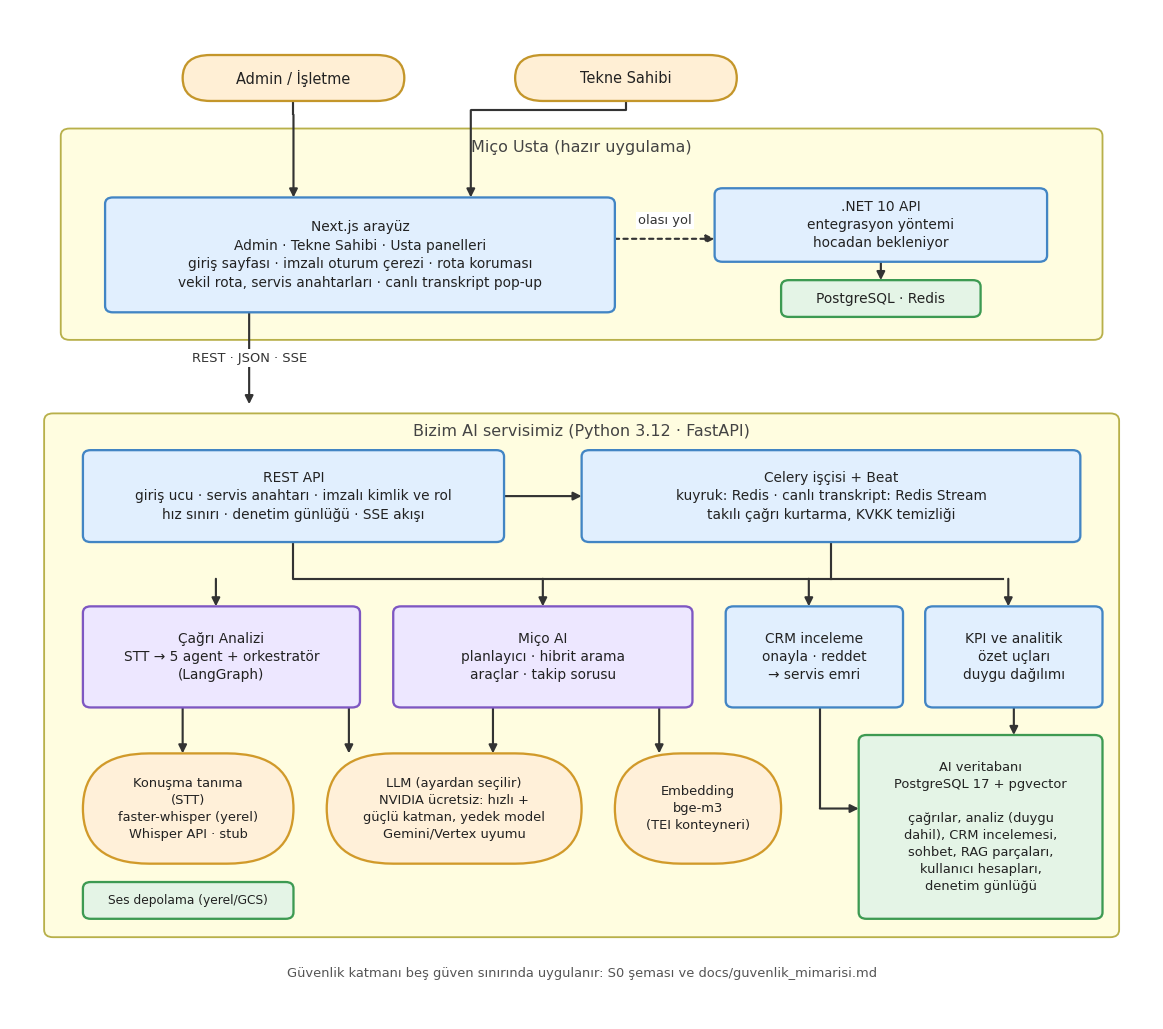
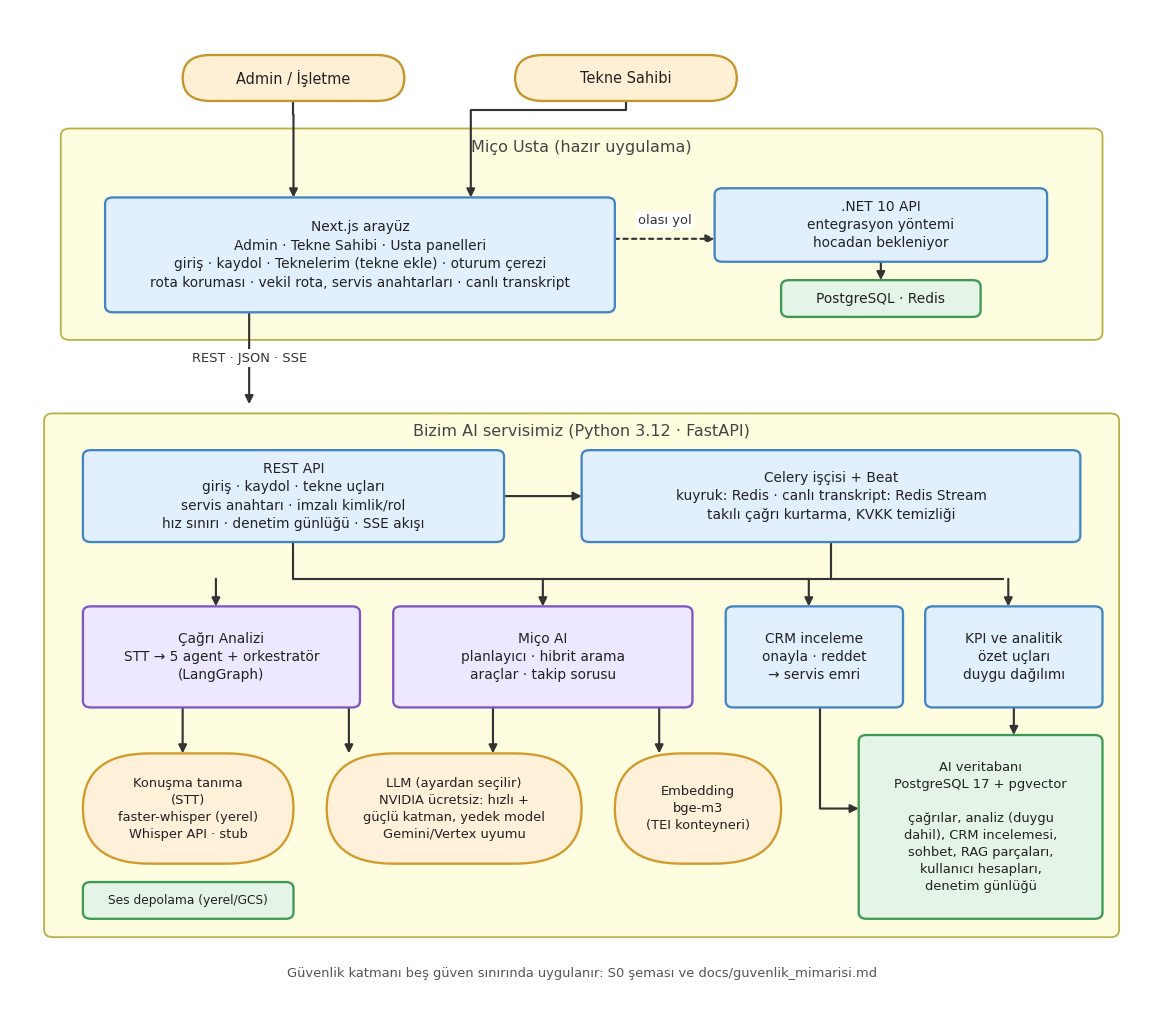
Mimari v7.1: kaydol ve tekne ekle, README ve şemalar (#389)

Changed region(s): [[0.1238, 0.4354, 0.3715, 0.5287], [0.1238, 0.2488, 0.4953, 0.2799]]

diff --git a/backend/tests/test_docs_consistency.py b/backend/tests/test_docs_consistency.py
@@ -14,7 +14,7 @@ ROOT = Path(__file__).resolve().parents[2]
 MARKDOWN = [
     ROOT / "README.md",
     ROOT / "README.en.md",
-    ROOT / "Sistem_mimarisi_v7.0.md",
+    ROOT / "Sistem_mimarisi_v7.1.md",
     ROOT / "backend" / "README.md",
     ROOT / "frontend" / "README.md",
     *sorted((ROOT / "docs").glob("*.md")),
@@ -35,7 +35,7 @@ def test_relative_links_and_images_exist(path: Path) -> None:
 
 
 def test_diagrams_referenced_by_architecture_exist() -> None:
-    text = (ROOT / "Sistem_mimarisi_v7.0.md").read_text(encoding="utf-8")
+    text = (ROOT / "Sistem_mimarisi_v7.1.md").read_text(encoding="utf-8")
     images = re.findall(r"!\[[^\]]*\]\((docs/diagrams/[^)]+)\)", text)
     assert images, "mimari belgede diyagram yok"
     for image in images:
@@ -71,7 +71,7 @@ def test_every_table_is_in_db_schema_doc() -> None:
 
 def test_main_dependencies_are_listed_in_architecture() -> None:
     """Projenin ana çerçeveleri mimari belgenin teknoloji tablosunda yazılı olmalı."""
-    text = (ROOT / "Sistem_mimarisi_v7.0.md").read_text(encoding="utf-8")
+    text = (ROOT / "Sistem_mimarisi_v7.1.md").read_text(encoding="utf-8")
     for name in (
         "FastAPI",
         "Celery",
@@ -88,7 +88,7 @@ def test_main_dependencies_are_listed_in_architecture() -> None:
         "Alembic",
         "Docker",
     ):
-        assert name in text, f"Sistem_mimarisi_v7.0.md teknoloji tablosunda {name} yok"
+        assert name in text, f"Sistem_mimarisi_v7.1.md teknoloji tablosunda {name} yok"
 
 
 def test_er_diagram_source_matches_models() -> None:

diff --git a/docs/diagrams/kaynak/mimari_semalari.py b/docs/diagrams/kaynak/mimari_semalari.py
@@ -95,8 +95,8 @@ def genel_mimari() -> None:
 
     c.zone(3, 66, 94, 23, "Miço Usta (hazır uygulama)")
     c.box(7, 69, 46, 12.5,
-          "Next.js arayüz\nAdmin · Tekne Sahibi · Usta panelleri\ngiriş sayfası · imzalı oturum çerezi · rota koruması\n"
-          "vekil rota, servis anahtarları · canlı transkript pop-up", "servis", fs=9)
+          "Next.js arayüz\nAdmin · Tekne Sahibi · Usta panelleri\ngiriş · kaydol · Teknelerim (tekne ekle) · oturum çerezi\n"
+          "rota koruması · vekil rota, servis anahtarları · canlı transkript", "servis", fs=9)
     c.box(62, 74.5, 30, 8, ".NET 10 API\nentegrasyon yöntemi\nhocadan bekleniyor", "servis", fs=9)
     c.box(68, 68.5, 18, 4, "PostgreSQL · Redis", "veri", fs=9)
     c.line([(24, 92), (24, 90.5), (24, 81.5)], arrow=True)
@@ -108,7 +108,7 @@ def genel_mimari() -> None:
 
     c.zone(1.5, 1, 97, 57, "Bizim AI servisimiz (Python 3.12 · FastAPI)")
     c.box(5, 44, 38, 10,
-          "REST API\ngiriş ucu · servis anahtarı · imzalı kimlik ve rol\nhız sınırı · denetim günlüğü · SSE akışı", "servis", fs=9)
+          "REST API\ngiriş · kaydol · tekne uçları\nservis anahtarı · imzalı kimlik/rol\nhız sınırı · denetim günlüğü · SSE akışı", "servis", fs=9)
     c.box(50, 44, 45, 10,
           "Celery işçisi + Beat\nkuyruk: Redis · canlı transkript: Redis Stream\ntakılı çağrı kurtarma, KVKK temizliği",
           "servis", fs=9)

diff --git a/docs/diagrams/kaynak/guvenlik_semalari.py b/docs/diagrams/kaynak/guvenlik_semalari.py
@@ -136,8 +136,8 @@ def s1():
     c = Canvas("S1 · Kimlik doğrulama",
                "İki katman: (1) tarayıcı → Next: giriş + imzalı oturum çerezi, (2) Next → API: servis anahtarı + imzalı kimlik ve rol")
     c.zone(2, 44, 96, 36, "Katman 1 · Kullanıcı girişi ve oturum (Next, #369-#372)")
-    c.box(3.5, 60, 16, 14, "/login sayfası\nYönetici / Tekne sahibi\nkullanıcı adı + parola", "dis", 8.8)
-    c.box(24, 60, 18, 14, "POST /auth/login\nrole göre tablo; tek tip\n401, IP bütçesi 429,\n5 hata → 15 dk kilit", "var", 8.8)
+    c.box(3.5, 60, 16, 14, "/login · /register\nYönetici / Tekne sahibi\ne-posta + parola\n(kayıt: ≥12, Aa, sembol)", "dis", 8.8)
+    c.box(24, 60, 18, 14, "POST /auth/login ve /register\nrole göre tablo; tek tip 401,\nIP bütçesi 429, 5 hata → kilit;\nkayıt yalnız owner açar", "var", 8.8)
     c.box(47, 60, 18, 14, "admin_accounts /\nowner_accounts\nargon2id karma\n(ayrı tablolar)", "veri", 8.8)
     c.box(70, 60, 26, 14, "mico_session çerezi: HMAC imzalı,\nhttpOnly, SameSite=Lax,\ncanlıda secure, 8 saat", "var", 8.8)
     c.arrow(19.5, 67, 24, 67)

diff --git a/Sistem_mimarisi_v7.1.md b/Sistem_mimarisi_v7.1.md
@@ -1,7 +1,9 @@
-# Sistem Mimarisi v7.0
+# Sistem Mimarisi v7.1
 
 **Proje:** Yapay Zekâ Destekli Sesli Asistan ve Çağrı Merkezi Analitiği Sistemi
-**Sürüm:** v7.0 · **Tarih:** 2026-11-24 · **Durum:** Güncel · **Önceki sürümler:** v1, v2, v3.0, v3.1, v4, v4.1, v4.2, v5, v6, v6.1 (git geçmişinde)
+**Sürüm:** v7.1 · **Tarih:** 2026-11-24 · **Durum:** Güncel · **Önceki sürümler:** v1, v2, v3.0, v3.1, v4, v4.1, v4.2, v5, v6, v6.1, v7.0 (git geçmişinde)
+
+**v7.1'de değişenler (24 Kasım, kaydol ve tekne ekle):** Tekne sahibi paneline müşterilerin kendi hesabını açtığı **kaydol sayfası** (`/register`: ad, soyad, telefon, e-posta, parola + tekrar) ve kendi teknelerini kaydettiği **Teknelerim / Tekne ekle** sayfası (`/owner/boats`: ad, model, yıl, marina) eklendi (#381-#384). Giriş alanı artık **e-posta**dır (iki panelde; `username` sütununda küçük harfle), sentetik hesaplar e-postaya taşındı. Parola kuralı kayıtta zorunludur: en az 12 karakter, büyük harf, küçük harf ve özel sembol. Yeni uçlar: `POST /auth/register` (tek işlemde `customers` + `owner_accounts`; kayıtlı e-postada genel 409; IP başına saatte 10 deneme; yalnız `owner` hesabı açılır) ve `GET/POST /boats` (yalnız `owner`; `owner_id` oturumdan; aynı ad 409; sahip başına en çok 20 tekne). **Şema değişmedi** (Alembic 0009): doğum tarihi ve tekne boyu/motor gibi sütunu olmayan alanlar alınmaz. Genel mimari (01) şeması, S1 şeması, README'ler ve belgeler (api, güvenlik, kişisel veri envanteri, çalıştırma rehberi) güncellendi; API işlem sayısı 36.
 
 **v7.0'da değişenler (24 Kasım, kimlik doğrulama):** Test arayüzüne **giriş sistemi** eklendi ve hocanın son güvenlik perspektifi olan kimlik doğrulama mimariye işlendi (#265 kararı: kullanıcı girişi uygulandı; #368-#373). `/login` sayfasında Yönetici / Tekne sahibi seçilir; hesaplar ayrı `admin_accounts` ve `owner_accounts` tablolarındadır (argon2id; `user_accounts` kaldırıldı, tablo sayısı 19, Alembic 0009); `POST /auth/login` tek tip hata verir, 5 hatada 15 dk kilit ve IP başına hata bütçesi uygular, olaylar denetim günlüğüne yazılır. Next tarafında imzalı `httpOnly` oturum çerezi (`mico_session`, 8 saat), `proxy.ts` ile rota koruması ve rol çaprazlama engeli getirildi; vekil rota kimliği ve rolü yalnızca çerezden türetip imzalar (tarayıcı kimliği/rol seçici ve `ALLOW_BROWSER_USER_ID` kaldırıldı). Genel mimari (01) ile S0/S1 şemaları yeniden üretildi; §3, §4.1, §6, §11, §12 ve `docs/guvenlik_mimarisi.md` güncellendi. Sınırlar: çok faktörlü doğrulama ve parola sıfırlama yok; oturum sunucuda iptal edilemez.
 
@@ -250,6 +252,8 @@ KPI'lar İstanbul saatine göre günlere ayrılır.
 | Admin | **CRM önerisi:** Bekliyor / Onaylandı / Reddedildi sekmeleri; onayla, reddet, düzenle | Çalışıyor |
 | Admin | **Servis Emirleri:** liste, filtre, kaynak çağrıya bağlantı, sıralı durum ilerletme | Çalışıyor |
 | Tekne Sahibi | **Asistan:** sohbet penceresi, kaynak kartları, oturum geçmişi | Çalışıyor |
+| Tekne Sahibi | **Kaydol** (`/register`) ve **Teknelerim / Tekne ekle** (`/owner/boats`): ad, model, yıl, marina; liste ve boş durum | Çalışıyor |
+| Herkes | **Giriş** (`/login`): Yönetici / Tekne sahibi seçimi, e-posta + parola, çıkış | Çalışıyor |
 | Usta | Değişiklik yok | — |
 
 ## 8. Entegrasyon Sözleşmesi
@@ -264,6 +268,7 @@ Arayüz ile AI servisi arasındaki sözleşme `docs/api.md` ve `frontend/openapi
 | CRM önerileri | Liste ve durum filtresi; onayla, reddet |
 | KPI özeti | Tarih aralığına göre toplam KPI'lar |
 | Asistan sohbeti | Soru ve kullanıcı kimliği gönderilir; kaynaklı cevap akış olarak döner; oturum listesi ve geçmişi |
+| Giriş, kaydol, tekne | `POST /auth/login`, `POST /auth/register` (yalnız Next sunucusu çağırır); `GET/POST /boats` (tekne sahibi) |
 
 - **Kimlik doğrulama:** İstemci AI servisini servis anahtarıyla çağırır; tekne sahibinin kimliği isteğe eklenir. Test arayüzünde kullanıcı girişi vardır: ayrı yönetici/sahip hesap tabloları (argon2id), `POST /auth/login`, imzalı oturum çerezi ve rota koruması; Next vekil rotası kimliği çerezden türetip imzalar (#265, #368-#372). Miço Usta ile entegrasyonda kimliği .NET uygulaması belirler. Ayrıntı §4.1.
 - **Hatalar:** Tek tip hata biçimi (kod, mesaj, istek kimliği) korunur.
@@ -285,7 +290,7 @@ Arayüz ile AI servisi arasındaki sözleşme `docs/api.md` ve `frontend/openapi
 
 | Alan | Durum |
 |------|-------|
-| Backend (FastAPI, 32 API işlemi, 19 tablo, Alembic 0009), CI (lint, tip, ~2.460 test, duman testi, Docker imajı, güvenlik taraması, gitleaks, belge tutarlılığı) | **Hazır** |
+| Backend (FastAPI, 36 API işlemi, 19 tablo, Alembic 0009), CI (lint, tip, ~2.460 test, duman testi, Docker imajı, güvenlik taraması, gitleaks, belge tutarlılığı) | **Hazır** |
 | Beş analiz agent'ı (sınıflandırma, CRM, satış, özet, duygu) + orkestratör, gerçek LLM ile ölçüm | **Hazır** (100 çağrılık sette ilk dört agent test kümesinde genel %94, sonraki aksiyon %92; duygu agent'ı 119 çağrıda %97, şikâyet kesinliği %92 — etiketler tek kişiden, örnek sayısı az: `docs/agent_dogrulugu.md`) |
 | Duygu analizi arayüzü: çağrı listesinde rozet ve şikâyet bayrağı, detayda gerekçe, analitikte dağılım ve şikâyet sayısı | **Hazır**; manuel test bekliyor |
 | Canlı transkript (yazıya çevirme sırasında pop-up, SSE) | **Hazır**; manuel test bekliyor; gerçek yığında uçtan uca denenmedi, parçalar ~30 sn'lik pencere hızında gelir |
@@ -300,7 +305,7 @@ Arayüz ile AI servisi arasındaki sözleşme `docs/api.md` ve `frontend/openapi
 | CI ve dal koruması | **Hazır**: backend ve frontend iş akışları, Playwright e2e (Chromium), `main` için ruleset (zorunlu kontroller: Backend CI sonucu, Frontend CI sonucu) |
 | Erişilebilirlik (axe, klavye, pencere daraltma), Playwright E2E testleri | **Hazır** |
 | Güvenlik katmanı (§4.1): servis anahtarı ve imzalı kimlik, maskeleme, injection savunması, sahip izolasyonu ve roller, hız sınırı, denetim günlüğü, KVKK silme, yükleme kontrolleri, saldırı test paketi | **Hazır** (#264-#278 ve kimlik doğrulama #265, #368-#373 kapandı); otomatik tam tur (#320) planlı; `docs/guvenlik_mimarisi.md` |
-| Miço Usta uygulamasına entegrasyon, kullanıcı girişi, Google Cloud'a canlıya alma | **Yapılmadı** (hocayla yöntem netleşecek) |
+| Miço Usta uygulamasına entegrasyon ve Google Cloud'a canlıya alma | **Yapılmadı** (hocayla yöntem netleşecek) |
 | Yazıya çevirme doğruluğu (#322), ücretsiz STT modellerinin karşılaştırması (#316), embedding karşılaştırması (#318), otomatik güvenlik turu (#320) | **Planlandı** (ölçümler yalnız sentetik veriyle) |
 
 **Bilinen sorunlar:** Ücretsiz LLM kotası canlı demoda yavaşlığa yol açabilir (429'da bekleyip yeniden denenir). Mono kayıtta konuşmacı ayrımı metin tabanlıdır (LLM cümleleri temsilci/müşteri diye etiketler, #263); akustik ayrım yoktur. Windows'ta `localhost` önce IPv6'ya gider ve Redis bağlantısı ~2 sn gecikir; bu yüzden varsayılan Redis adresi `127.0.0.1`'dir (mevcut `.env` dosyalarında elle değiştirilmelidir). Ortak geliştirme veritabanında önceki denemelerden kalan veri bazı entegrasyon testlerini düşürebilir (temiz veritabanında geçer).
@@ -323,8 +328,9 @@ Arayüz ile AI servisi arasındaki sözleşme `docs/api.md` ve `frontend/openapi
 
 ## 13. Değişiklik Günlüğü
 
-- **v7.0 (2026-11-24):** Belge sürümü v7.0 oldu (dosya `Sistem_mimarisi_v7.0.md`). Kimlik doğrulama perspektifi tamamlandı: giriş sayfası, ayrı hesap tabloları, `POST /auth/login`, imzalı oturum çerezi, rota koruması, oturumdan türetilen imzalı kimlik; S0/S1 ve genel mimari (01) şemaları yeniden üretildi; tablo sayısı 19 (Alembic 0009); #265 kapandı.
-- **v6.1 (2026-11-20):** Belge sürümü v6.1 oldu (dosya `Sistem_mimarisi_v7.0.md`). Canlı transkript ve duygu analizi (5. agent) mimariye, teknoloji ve durum tablolarına işlendi; genel mimari (01), çağrı analitiği (02), agent (04) ve ER şemaları yeniden üretildi (kaynak betikler `docs/diagrams/kaynak/mimari_semalari.py` ve `er_semasi.py`), S2'ye canlı transkript kuralları eklendi; güvenlik issue'larının durumu (#264-#278 kapandı) ve planlanan işler (#316, #318, #320, #321, #322) yazıldı; bağımlılıklar `uv.lock`'ta küçük/yama sürümlerine yükseltildi, doğrulanmış sürümler §5'e eklendi, ana sürüm atlayan üç paket bekletildi.
+- **v7.1 (2026-11-24):** Belge sürümü v7.1 oldu (dosya `Sistem_mimarisi_v7.1.md`). Kaydol sayfası, Teknelerim / Tekne ekle sayfası, e-posta ile giriş, kayıtta parola kuralı, `POST /auth/register` ve `GET/POST /boats` uçları işlendi; 01 genel mimari ve S1 şemaları yeniden üretildi; README'ler, api, güvenlik, kişisel veri ve çalıştırma belgeleri güncellendi; API işlem sayısı 36.
+- **v7.0 (2026-11-24):** Belge sürümü v7.0 oldu (dosya `Sistem_mimarisi_v7.1.md`). Kimlik doğrulama perspektifi tamamlandı: giriş sayfası, ayrı hesap tabloları, `POST /auth/login`, imzalı oturum çerezi, rota koruması, oturumdan türetilen imzalı kimlik; S0/S1 ve genel mimari (01) şemaları yeniden üretildi; tablo sayısı 19 (Alembic 0009); #265 kapandı.
+- **v6.1 (2026-11-20):** Belge sürümü v6.1 oldu (dosya `Sistem_mimarisi_v7.1.md`). Canlı transkript ve duygu analizi (5. agent) mimariye, teknoloji ve durum tablolarına işlendi; genel mimari (01), çağrı analitiği (02), agent (04) ve ER şemaları yeniden üretildi (kaynak betikler `docs/diagrams/kaynak/mimari_semalari.py` ve `er_semasi.py`), S2'ye canlı transkript kuralları eklendi; güvenlik issue'larının durumu (#264-#278 kapandı) ve planlanan işler (#316, #318, #320, #321, #322) yazıldı; bağımlılıklar `uv.lock`'ta küçük/yama sürümlerine yükseltildi, doğrulanmış sürümler §5'e eklendi, ana sürüm atlayan üç paket bekletildi.
 - **v6 ek (2026-11-20):** Duygu Analiz Agent'ı eklendi (5. agent): müşterinin duygusu (olumlu / nötr / olumsuz) ve şikâyet bayrağı; şema, istem, orkestratöre ekleme, DB sütunları ve API alanı (#333); çağrı listesi ve analitik özetinde duygu alanları, ölçüm ve süre etkisi (#334).
 - **v6 ek (2026-11-19):** Canlı transkript akışı eklendi (§6.1): Redis Stream, SSE ucu, vekil geçişi, pop-up (#323-#327).
 - **v6 (2026-11-17):** Belge sürümü v6 oldu (dosya `Sistem_mimarisi_v6.md`). Güvenlik katmanı (§4.1) mevcut tüm güvenlik kurallarını içerecek biçimde yeniden yazıldı; güvenlik ilkeleri (§4.2); kullanıcı hesapları kararı (#278); uygulama sırası (Hafta 10, kimlik doğrulama en son). İlk hali v5 ekinde (#277) S0-S5 şemaları ve `docs/guvenlik_mimarisi.md` ile gelmişti. Mono konuşmacı ayrımı (#263) duruma işlendi.

diff --git a/README.en.md b/README.en.md
@@ -46,6 +46,7 @@ Istanbul Gedik University, MFK420 Graduation Project. An AI-powered call analyti
 - Resilience: on an LLM timeout the system switches to a fallback model; calls that get stuck are recovered automatically.
 - Miço AI: hybrid search (vector + full text, RRF), follow-up questions, word-by-word streaming (SSE), session history, and a grounding check that removes unsupported claims.
 - Miço AI safety layer (no LLM involved): distinct, situation-specific replies for profanity, threats, self-harm, prompt-injection attempts, requests for other people's data, and gibberish.
+- Login is separate for the two panels (Admin / Boat owner): e-mail + password, argon2id, 15-minute lock after 5 failures, signed `httpOnly` session cookie, route protection. Boat owners **sign up** on the register page (first name, last name, phone, e-mail; password of at least 12 characters with upper- and lower-case letters and a special symbol) and add their own boats on the **My boats** page.
 - A boat owner only sees **their own** data; chat history is read only from their own session.
 
 ## Architecture
@@ -63,7 +64,7 @@ Users (admin and boat owner) use the Next.js interface. It calls the Python AI s
 | ![ER](docs/diagrams/er_diagram.png) | Database ER diagram (18 tables) |
 | ![Security layer](docs/diagrams/S0_guvenlik_katmani_mimarisi.png) | Security-layer architecture; the five perspectives' diagrams and details: [`docs/guvenlik_mimarisi.md`](docs/guvenlik_mimarisi.md) (Turkish) |
 
-Detailed architecture, decisions and current status: [`Sistem_mimarisi_v7.0.md`](Sistem_mimarisi_v7.0.md) (Turkish).
+Detailed architecture, decisions and current status: [`Sistem_mimarisi_v7.1.md`](Sistem_mimarisi_v7.1.md) (Turkish).
 
 ## Tech stack
 
@@ -108,7 +109,7 @@ npm install
 cp .env.example .env.local    # Windows PowerShell: Copy-Item .env.example .env.local
 ```
 
-Fill in at least `SERVICE_API_KEY` and `LLM_API_KEY` in `backend/.env`; `SERVICE_KEY` in `frontend/.env.local` must equal the backend's `SERVICE_API_KEY`.
+Fill in at least `SERVICE_API_KEY` and `LLM_API_KEY` in `backend/.env`; `SERVICE_KEY` in `frontend/.env.local` must equal the backend's `SERVICE_API_KEY`. For login, also put a random `SESSION_SECRET` of at least 32 characters into `frontend/.env.local`.
 
 ```bash
 # Terminal 1: backend (starts infrastructure, migration, seed, index, worker and API in one command)
@@ -121,6 +122,8 @@ npm run dev
 ```
 
 The first run can take a few minutes (the embedding model, ~2.3 GB, is downloaded); later starts take a few seconds.
+
+**Login accounts:** `uv run python -m scripts.seed_accounts` creates an e-mail + random password for every synthetic customer and two admins (passwords are written only to the git-ignored `backend/.local/seed_credentials.csv`). Admins are `yonetici1@micousta.test` and `yonetici2@micousta.test`; boat owners log in with the customer's e-mail. A new customer can sign up at `http://localhost:3000/register`.
 
 > **Windows note:** use `127.0.0.1` instead of `localhost` in `REDIS_URL` (this is the default in `.env.example`). `localhost` resolves to IPv6 first, which adds ~2 s to every Redis connection.
 
@@ -135,6 +138,7 @@ All settings are read from `backend/.env` (`backend/.env.example` is commented).
 | `STT_PROVIDER`, `WHISPER_MODEL`, `STT_CHANNEL_LAYOUT`, `WHISPER_INITIAL_PROMPT` | Speech recognition: provider, model size, channel layout, domain vocabulary |
 | `EMBEDDING_PROVIDER`, `TEI_URL` | Embedding service |
 | `RERANKER_PROVIDER`, `RERANKER_URL` | Service that re-ranks search results (optional, default `none`) |
+| `SESSION_SECRET` (frontend) | Secret that signs the session cookie, at least 32 characters (login does not work without it) |
 | `AUDIO_STORAGE_BACKEND` | Audio storage: `local` or `gcs` |
 | `ANALYSIS_CLASSIFIER_FIRST` | If `true`, restores the older "classify first" ordering |
 | `LLM_SENTIMENT_ANALYZER_MODEL` | Model for the sentiment agent (the strong model if empty) |
@@ -198,7 +202,7 @@ On synthetic data with a real LLM (details under `docs/`, in Turkish):
 ## Security and privacy
 
 - All data is synthetic; personal data is masked before it reaches the LLM.
-- The web interface calls the AI service with a service key and attaches the boat owner's identity to each request. Authorization-matrix tests verify that one owner cannot reach another owner's data.
+- Identity has two layers: user login (e-mail + password, signed session cookie, route protection) and service-to-service key + signed identity/role; the browser cannot choose an identity or role. Known limits: no multi-factor authentication and no password reset. The web interface calls the AI service with a service key and attaches the boat owner's identity, derived from the session and signed, to each request. Authorization-matrix tests verify that one owner cannot reach another owner's data.
 - Every claim in a Miço AI answer is backed by a record; unsupported claims are removed.
 - Miço AI answers profanity, threats, self-harm, injection attempts and requests for other people's data without sending them to the LLM.
 - The security layer is applied at five trust boundaries: signed identity and roles, rate limiting and security headers, masking, multi-layer (direct and indirect) prompt-injection defence, an audit log, KVKK/GDPR-style deletion and retention, and audio-file validation. Attack test suite: [`docs/guvenlik_testi.md`](docs/guvenlik_testi.md); details: [`docs/guvenlik_mimarisi.md`](docs/guvenlik_mimarisi.md).
@@ -212,10 +216,10 @@ No direct commits to `main`. Every piece of work goes on its own branch with a p
 
 | Status | Item |
 |---|---|
-| Done | Call analysis (5 agents), CRM approval flow, service orders, KPI screens, Miço AI, live transcript, sentiment analysis, security layer, one-command Docker, CI |
+| Done | Call analysis (5 agents), CRM approval flow, service orders, KPI screens, Miço AI, live transcript, sentiment analysis, security layer, login / sign-up / add boat, one-command Docker, CI |
 | Awaiting manual test | Live transcript and sentiment analysis (fix issues are opened if problems appear) |
 | Planned | Transcription accuracy and a comparison of free STT models; a comparison of embedding alternatives (4 models, reranker, Hugging Face API); an automated background security round |
-| Final | Integration into the Miço Usta application and deployment to Google Cloud ([`docs/canliya_alma.md`](docs/canliya_alma.md)); the login-screen decision with the instructor |
+| Final | Integration into the Miço Usta application and deployment to Google Cloud ([`docs/canliya_alma.md`](docs/canliya_alma.md)) |
 
 ## Documentation
 
@@ -223,7 +227,7 @@ All documents below are in Turkish.
 
 | Document | Content |
 |---|---|
-| [`Sistem_mimarisi_v7.0.md`](Sistem_mimarisi_v7.0.md) | Architecture, decisions, security layer, current status (v7.0) |
+| [`Sistem_mimarisi_v7.1.md`](Sistem_mimarisi_v7.1.md) | Architecture, decisions, security layer, current status (v7.1) |
 | [`docs/db_schema.md`](docs/db_schema.md) | Database schema and ER diagram |
 | [`docs/api.md`](docs/api.md) | API contract |
 | [`docs/enums.md`](docs/enums.md) | Field value lists |

diff --git a/README.md b/README.md
@@ -44,6 +44,7 @@
 - Dayanıklılık: LLM zaman aşımında yedek modele geçilir; takılı kalan çağrı otomatik kurtarılır.
 - Miço AI: hibrit arama (vektör + tam metin, RRF), takip soruları, kelime kelime akış (SSE), oturum geçmişi, dayanaksız ifadeyi eleyen kaynak denetimi.
 - Miço AI güvenlik katmanı (LLM'siz): küfür, tehdit, kendine zarar, kural aşma girişimi, başkasının verisini isteme ve anlamsız metin için ayrı, duruma göre değişen cevaplar.
+- Giriş, iki panel için ayrıdır (Yönetici / Tekne sahibi): e-posta + parola, argon2id, 5 hatada 15 dk kilit, imzalı `httpOnly` oturum çerezi, rota koruması. Tekne sahipleri **kaydol** sayfasından hesap açar (ad, soyad, telefon, e-posta; parola en az 12 karakter, büyük/küçük harf ve özel sembol) ve **Teknelerim** sayfasında kendi teknelerini ekler.
 - Tekne sahibi yalnızca **kendi** verisini görür; oturum geçmişi de yalnızca kendi oturumundan okunur.
 
 ## Mimari
@@ -61,7 +62,7 @@ Kullanıcılar (admin ve tekne sahibi) Next.js arayüzünü kullanır. Arayüz, 
 | ![ER](docs/diagrams/er_diagram.png) | Veritabanı ER diyagramı (18 tablo) |
 | ![Güvenlik katmanı](docs/diagrams/S0_guvenlik_katmani_mimarisi.png) | Güvenlik katmanı mimarisi; beş perspektifin şemaları ve ayrıntısı: [`docs/guvenlik_mimarisi.md`](docs/guvenlik_mimarisi.md) |
 
-Ayrıntılı mimari, kararlar ve mevcut durum: [`Sistem_mimarisi_v7.0.md`](Sistem_mimarisi_v7.0.md).
+Ayrıntılı mimari, kararlar ve mevcut durum: [`Sistem_mimarisi_v7.1.md`](Sistem_mimarisi_v7.1.md).
 
 ## Teknolojiler
 
@@ -106,7 +107,7 @@ npm install
 cp .env.example .env.local    # Windows PowerShell: Copy-Item .env.example .env.local
 ```
 
-`backend/.env` içinde en az `SERVICE_API_KEY` ve `LLM_API_KEY` doldurulur; `frontend/.env.local` içindeki `SERVICE_KEY`, backend'deki `SERVICE_API_KEY` ile aynı olmalıdır.
+`backend/.env` içinde en az `SERVICE_API_KEY` ve `LLM_API_KEY` doldurulur; `frontend/.env.local` içindeki `SERVICE_KEY`, backend'deki `SERVICE_API_KEY` ile aynı olmalıdır. Giriş için `frontend/.env.local` içine ayrıca en az 32 karakterlik rastgele bir `SESSION_SECRET` yazılır.
 
 ```bash
 # Terminal 1: backend (altyapı, migration, seed, indeks, işçi ve API'yi tek komutla başlatır)
@@ -119,6 +120,8 @@ npm run dev
 ```
 
 İlk çalıştırma birkaç dakika sürebilir (embedding modeli ~2,3 GB iner); sonraki açılışlar birkaç saniyedir.
+
+**Giriş hesapları:** `uv run python -m scripts.seed_accounts` her sentetik müşteri ve iki yönetici için e-posta + rastgele parola üretir (parolalar yalnızca git dışı `backend/.local/seed_credentials.csv` dosyasına yazılır). Yöneticiler `yonetici1@micousta.test`, `yonetici2@micousta.test`; tekne sahipleri müşterinin e-postasıyla girer. Yeni müşteri `http://localhost:3000/register` sayfasından kendisi kaydolabilir.
 
 > **Windows notu:** `REDIS_URL` için `localhost` yerine `127.0.0.1` kullanın (`.env.example`'daki varsayılan budur). `localhost` önce IPv6'ya gittiği için her Redis bağlantısı ~2 sn gecikir.
 
@@ -133,6 +136,7 @@ Tüm ayarlar `backend/.env` dosyasından okunur (`backend/.env.example` açıkla
 | `STT_PROVIDER`, `WHISPER_MODEL`, `STT_CHANNEL_LAYOUT`, `WHISPER_INITIAL_PROMPT` | Konuşma tanıma: sağlayıcı, model boyutu, kanal düzeni, alan sözcükleri |
 | `EMBEDDING_PROVIDER`, `TEI_URL` | Embedding servisi |
 | `RERANKER_PROVIDER`, `RERANKER_URL` | Arama sonuçlarını yeniden sıralayan servis (isteğe bağlı, varsayılan `none`) |
+| `SESSION_SECRET` (frontend) | Oturum çerezini imzalayan gizli anahtar, en az 32 karakter (yoksa giriş çalışmaz) |
 | `AUDIO_STORAGE_BACKEND` | Ses depolama: `local` veya `gcs` |
 | `ANALYSIS_CLASSIFIER_FIRST` | `true` ise eski "önce sınıflandırma" sırası |
 | `LLM_SENTIMENT_ANALYZER_MODEL` | Duygu analizi agent'ının modeli (boşsa güçlü model) |
@@ -196,7 +200,7 @@ Sentetik veri üzerinde, gerçek LLM ile (ayrıntılar `docs/` altında):
 ## Güvenlik ve gizlilik
 
 - Veri tamamen sentetiktir; kişisel veriler LLM'e gitmeden maskelenir.
-- Arayüz AI servisini servis anahtarıyla çağırır; tekne sahibinin kimliği isteğe eklenir. Yetki matrisi testleriyle başka sahibin verisine erişilemediği doğrulanır.
+- Kimlik iki katmanlıdır: kullanıcı girişi (e-posta + parola, imzalı oturum çerezi, rota koruması) ve servisler arası servis anahtarı + imzalı kimlik/rol; tarayıcı kimlik veya rol belirleyemez. Bilinen sınırlar: çok faktörlü doğrulama ve parola sıfırlama yok. Arayüz AI servisini servis anahtarıyla çağırır; tekne sahibinin kimliği oturumdan türetilip imzalanarak isteğe eklenir. Yetki matrisi testleriyle başka sahibin verisine erişilemediği doğrulanır.
 - Miço AI cevabındaki her iddia bir kayda dayanır; dayanaksız ifade silinir.
 - Miço AI küfür, tehdit, kendine zarar, kural aşma ve başkasının verisi isteklerini LLM'e göndermeden cevaplar.
 - Güvenlik katmanı beş güven sınırında uygulanır: imzalı kimlik ve roller, hız sınırı ve güvenlik başlıkları, maskeleme, çok katmanlı (doğrudan ve dolaylı) prompt injection savunması, denetim günlüğü, KVKK silme ve saklama, ses dosyası doğrulaması. Saldırı test paketi: [`docs/guvenlik_testi.md`](docs/guvenlik_testi.md); ayrıntı: [`docs/guvenlik_mimarisi.md`](docs/guvenlik_mimarisi.md).
@@ -210,16 +214,16 @@ Sentetik veri üzerinde, gerçek LLM ile (ayrıntılar `docs/` altında):
 
 | Durum | İş |
 |---|---|
-| Hazır | Çağrı analizi (5 agent), CRM onay akışı, servis emirleri, KPI ekranları, Miço AI, canlı transkript, duygu analizi, güvenlik katmanı, Docker ile tek komut, CI |
+| Hazır | Çağrı analizi (5 agent), CRM onay akışı, servis emirleri, KPI ekranları, Miço AI, canlı transkript, duygu analizi, güvenlik katmanı, giriş / kaydol / tekne ekleme, Docker ile tek komut, CI |
 | Manuel test bekliyor | Canlı transkript ve duygu analizi (sorun çıkarsa düzeltme issue'ları açılır) |
 | Planlı | Yazıya çevirme doğruluğu ve ücretsiz STT modellerinin karşılaştırması; embedding alternatifleri (4 model, reranker, Hugging Face API) karşılaştırması; arka planda otomatik güvenlik turu |
-| Final | Miço Usta uygulamasına entegrasyon ve Google Cloud'a canlıya alma ([`docs/canliya_alma.md`](docs/canliya_alma.md)); giriş ekranı kararı hocayla |
+| Final | Miço Usta uygulamasına entegrasyon ve Google Cloud'a canlıya alma ([`docs/canliya_alma.md`](docs/canliya_alma.md)) |
 
 ## Belgeler
 
 | Belge | İçerik |
 |---|---|
-| [`Sistem_mimarisi_v7.0.md`](Sistem_mimarisi_v7.0.md) | Mimari, kararlar, güvenlik katmanı, mevcut durum (v7.0) |
+| [`Sistem_mimarisi_v7.1.md`](Sistem_mimarisi_v7.1.md) | Mimari, kararlar, güvenlik katmanı, mevcut durum (v7.1) |
 | [`docs/db_schema.md`](docs/db_schema.md) | Veritabanı şeması ve ER diyagramı |
 | [`docs/api.md`](docs/api.md) | API sözleşmesi |
 | [`docs/enums.md`](docs/enums.md) | Alan değer listeleri |

diff --git a/docs/kisisel_veri_envanteri.md b/docs/kisisel_veri_envanteri.md
@@ -17,12 +17,12 @@ silindiğini listeler (KVKK madde 7: silme, yok etme, anonim hale getirme). Veri
 | `agent_runs` | Hata iletisi, model, süre | Teknik | — | `analysis_results` CASCADE |
 | `crm_reviews` | `edited_fields`, `note` | İçerik (kullanıcı yazar) | Hayır | `calls` CASCADE |
 | `service_orders` | Açıklama, tekne, müşteri bağı | İş kaydı | Hayır | **Silinmez**; `source_call_id` NULL olur (bkz. §3) |
-| `customers` | Ad, telefon, e-posta, marina | Doğrudan tanımlayıcı | Hayır | Çağrı silme kapsamı dışı (§3) |
-| `boats`, `boat_notes`, `expenses`, `subscriptions` | Tekne, not, gider, abonelik | İş kaydı | Hayır | Çağrı silme kapsamı dışı (§3) |
+| `customers` | Ad, telefon, e-posta, marina; kaydol sayfasından müşterinin kendisi yazar (doğum tarihi alınmaz) | Doğrudan tanımlayıcı | Hayır | Çağrı silme kapsamı dışı (§3) |
+| `boats`, `boat_notes`, `expenses`, `subscriptions` | Tekne (sahibi kendi ekler: ad, model, yıl, marina), not, gider, abonelik | İş kaydı | Hayır | Çağrı silme kapsamı dışı (§3) |
 | `rag_chunks` | Tekne karnesi parçaları + embedding | İş kaydı içeriği | Hayır | Çağrıdan üretilmez; kaynak kayıt silinince (ayrı süreç) |
 | `chat_sessions`, `chat_messages` | Asistana sorulan sorular ve cevaplar | İçerik | Hayır | Sahibi `DELETE /assistant/sessions...` ile siler (#176) |
-| `owner_accounts` | Kullanıcı adı, parola özeti | Kimlik | — (parola düz değil) | Müşteri silinince CASCADE |
-| `admin_accounts` | Kullanıcı adı, görünen ad, parola özeti | Kimlik | — (parola düz değil) | Yönetici hesabı kaldırılınca |
+| `owner_accounts` | Kullanıcı adı (= e-posta), parola özeti | Kimlik | — (parola düz değil) | Müşteri silinince CASCADE |
+| `admin_accounts` | Kullanıcı adı (= e-posta), görünen ad, parola özeti | Kimlik | — (parola düz değil) | Yönetici hesabı kaldırılınca |
 | `audit_log` | `actor_id`, `ip`, olay türü, kimlikler | Teknik; IP kişisel veri sayılabilir | Metin/PII yazılmaz (kodla zorunlu) | **Silinmez** (yalnızca ekleme; §4) |
 | Uygulama günlükleri | İstek kimliği, durum | Teknik | Ham kişisel veri yazılmaz (#268 testi) | Günlük döndürme (altyapı) |
 

diff --git a/docs/calistirma.md b/docs/calistirma.md
@@ -101,6 +101,17 @@ uv run celery -A app.workers.celery_app beat -l info
 
 (Son üç komut ayrı terminallerde çalışır. `beat` zamanlayıcısı dakikada bir takılı kalan çağrıları tarayıp kurtarır [#107]; işçi de açılışında bir kez tarar. Windows'ta `worker -B` çalışmaz, bu yüzden `beat` ayrı süreçtir.)
 
+### Giriş hesapları ve kaydol
+
+Paneller oturum ister. Sentetik müşteri ve yönetici hesaplarını üret (Docker/Postgres açık, migration uygulanmış olmalı):
+
+```powershell
+cd backend
+uv run python -m scripts.seed_accounts
+```
+
+Giriş e-posta ile yapılır: yöneticiler `yonetici1@micousta.test` ve `yonetici2@micousta.test`, tekne sahipleri müşterinin e-postası. Rastgele parolalar yalnızca git dışı `backend/.local/seed_credentials.csv` dosyasında durur. `frontend/.env.local` içinde en az 32 karakterlik `SESSION_SECRET` tanımlı olmalıdır (yoksa giriş çalışmaz). Yeni müşteri `http://localhost:3000/register` sayfasından kaydolur (parola en az 12 karakter, büyük/küçük harf ve özel sembol) ve `Teknelerim` sayfasından kendi teknesini ekler; bu kayıtlar `customers`, `owner_accounts` ve `boats` tablolarına yazılır.
+
 ## 3. Ortam değişkenleri (backend/.env)
 
 `.env.example` dosyasındaki varsayılanlar yerel Docker ile uyumludur. Değiştirmen gerekenler:

diff --git a/backend/README.md b/backend/README.md
@@ -1,6 +1,6 @@
 # Backend (FastAPI)
 
-Çağrı merkezi analitiği sisteminin API'si ve arka plan işçileri. Mimari için repo kökündeki `Sistem_mimarisi_v7.0.md` dosyasına bakın.
+Çağrı merkezi analitiği sisteminin API'si ve arka plan işçileri. Mimari için repo kökündeki `Sistem_mimarisi_v7.1.md` dosyasına bakın.
 
 > Tüm sistemi (backend + frontend) sıfırdan ayağa kaldırmak için önce [`docs/calistirma.md`](../docs/calistirma.md) rehberine bak.
 
@@ -129,6 +129,9 @@ Analiz arka planda Celery işçisinde çalışır (`-Q default,analysis,index`);
 | `POST /api/v1/calls/{id}/analyze` | Çağrıyı yeniden işler: yeni analiz sürümü, transkript yoksa yeniden STT |
 | `GET /api/v1/calls/{id}/status` | İşlenme durumu |
 | `GET /api/v1/me/owner` | Tekne sahibi kimliği doğrulaması (`X-Service-Key` + zorunlu `X-User-Id`) |
+| `POST /api/v1/auth/login` | Giriş: rol (yönetici/sahip) + e-posta + parola; tek tip hata, kilit ve IP bütçesi (yalnız Next sunucusu çağırır) |
+| `POST /api/v1/auth/register` | Kaydol: müşteri + tekne sahibi hesabı oluşturur (parola ≥ 12 karakter, büyük/küçük harf, özel sembol) |
+| `GET/POST /api/v1/boats` | Tekne sahibi: kendi teknelerini listeler / ekler (`boats` tablosu) |
 
 ## Klasör Yapısı
 

diff --git a/docs/guvenlik_mimarisi.md b/docs/guvenlik_mimarisi.md
@@ -1,7 +1,7 @@
 # Güvenlik Katmanı Mimarisi
 
 **Kapsam:** Ses Verisi Güvenliği ve Yapay Zekâ Güvenliği — kimlik doğrulama, kişisel verilerin korunması, güvenli API kullanımı, prompt injection ve yetkisiz komutlara karşı koruma.
-**Tarih:** 2026-11-17 · **İş takibi:** GitHub etiketi `güvenlik-katmanı`, kilometre taşı *Hafta 10 (16-22 Kasım)*, ana issue #264 (#264-#278). Mimarideki özeti: `Sistem_mimarisi_v7.0.md` §4.1-§4.2.
+**Tarih:** 2026-11-17 · **İş takibi:** GitHub etiketi `güvenlik-katmanı`, kilometre taşı *Hafta 10 (16-22 Kasım)*, ana issue #264 (#264-#278). Mimarideki özeti: `Sistem_mimarisi_v7.1.md` §4.1-§4.2.
 **Okuma kuralı:** Her satırda **Var** = kodda bugün çalışan, **Planlanan** = ilgili issue'da tanımlı, henüz yazılmamış. Olmayan özellik "var" diye yazılmaz. Bu belge `docs/guvenlik_yuk.md` (#158 kontrol listesi) ile birlikte okunur.
 
 ## 1. Genel bakış
